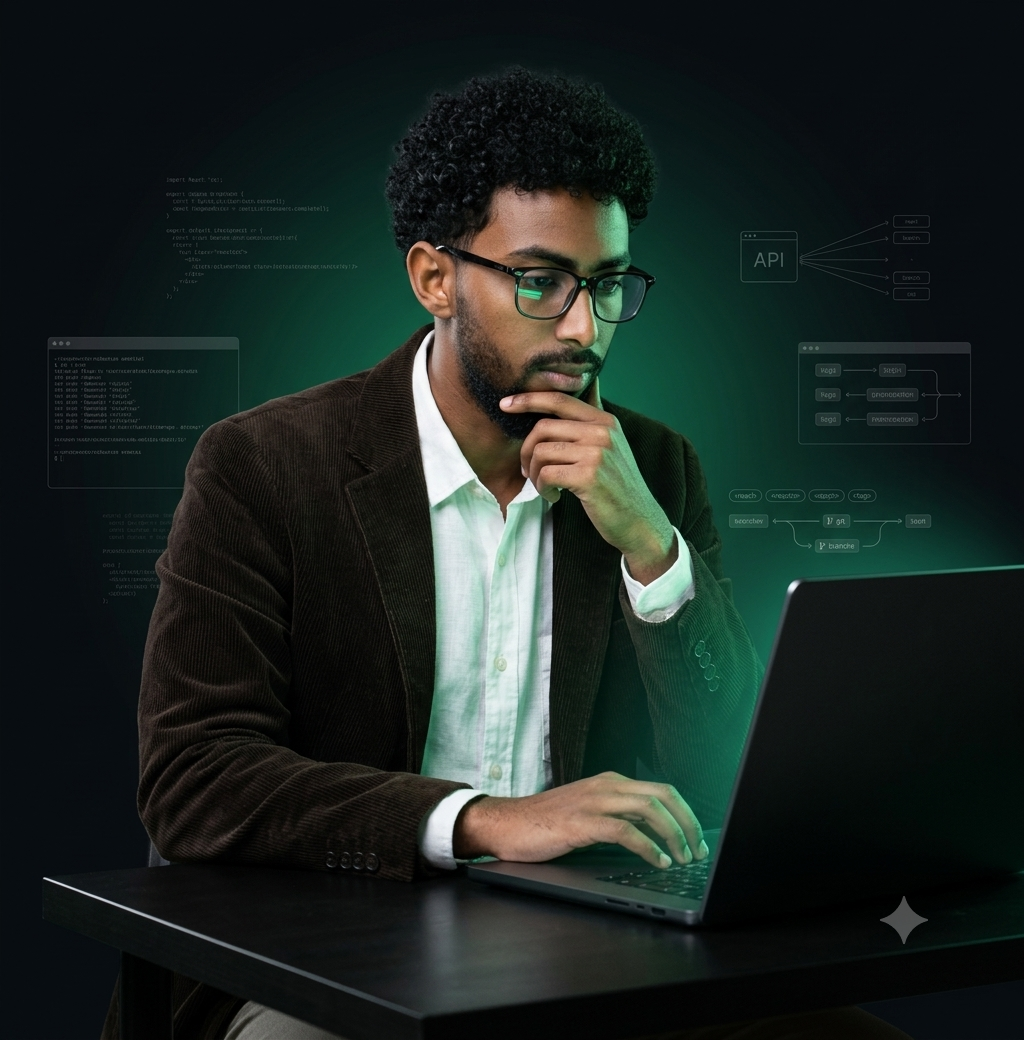
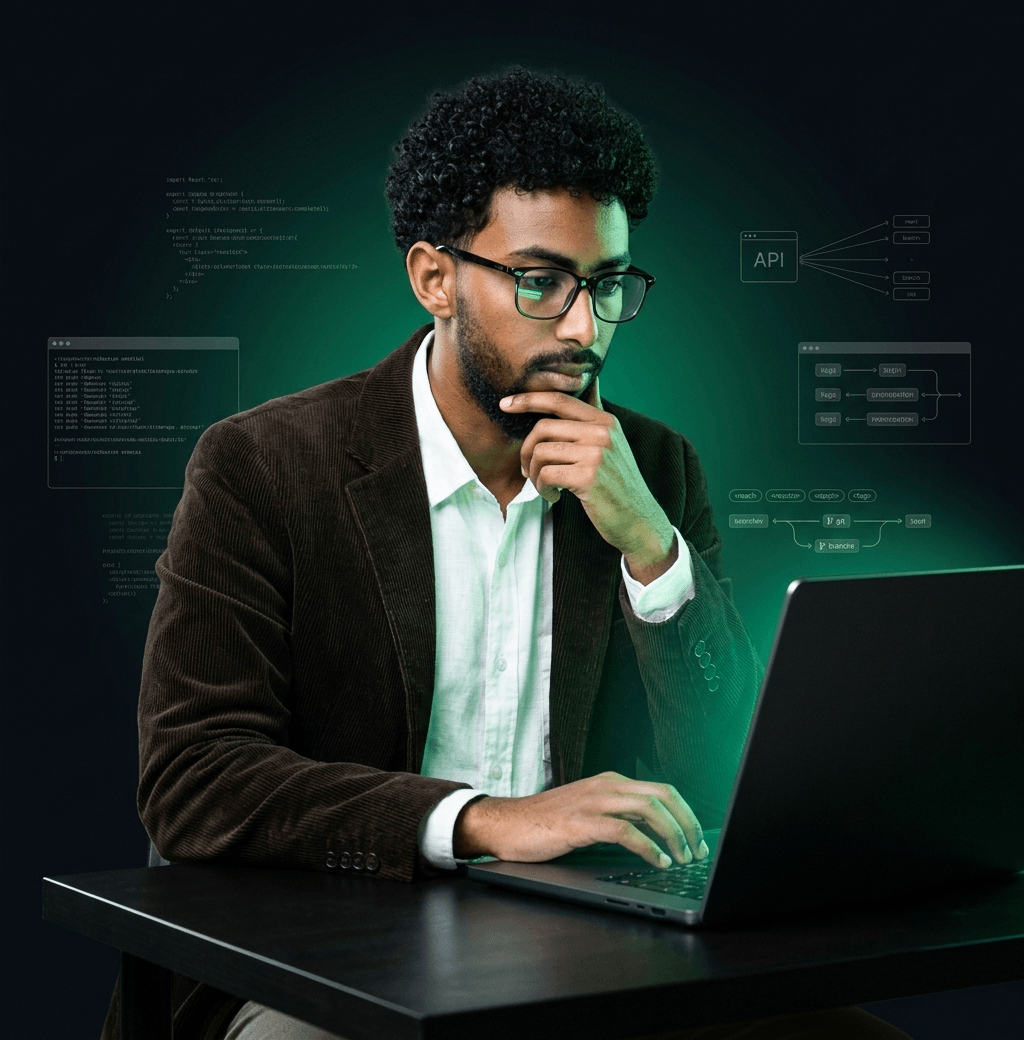
some updates

diff --git a/client/src/pages/home/About.jsx b/client/src/pages/home/About.jsx
@@ -166,7 +166,7 @@ const About = () => {
             {/* Card 4 — stats full width */}
             <Reveal>
               <div className="flex justify-evenly items-center p-6 rounded-2xl bg-emerald-900/50 border border-white/5">
-                <div className="flex flex-col items-center gap-1">
+                <div className="flex flex-col text-center gap-1">
                   <span className="text-2xl font-bold text-emerald-400">
                     <CountUp
                       from={0}
@@ -182,7 +182,7 @@ const About = () => {
                   </span>
                 </div>
                 <div className="w-px h-10 bg-white/10" />
-                <div className="flex flex-col items-center gap-1">
+                <div className="flex flex-col text-center gap-1">
                   <span className="text-2xl font-bold text-emerald-400">
                     <CountUp
                       from={0}
@@ -205,7 +205,7 @@ const About = () => {
                   </span>
                 </div>
                 <div className="w-px h-10 bg-white/10" />
-                <div className="flex flex-col items-center gap-1">
+                <div className="flex flex-col text-center gap-1">
                   <span className="text-2xl font-bold text-emerald-400">
                     Fast
                   </span>

diff --git a/client/src/index.css b/client/src/index.css
@@ -49,7 +49,7 @@
   }
 
   h2 {
-    @apply  text-2xl sm:text-3xl md:text-3xl font-semibold text-white text-shadow-gray-800 text-shadow-lg;
+    @apply  text-2xl sm:text-3xl md:text-3xl font-semibold text-white;
   }
   h3 {
     @apply text-xl font-bold text-white;